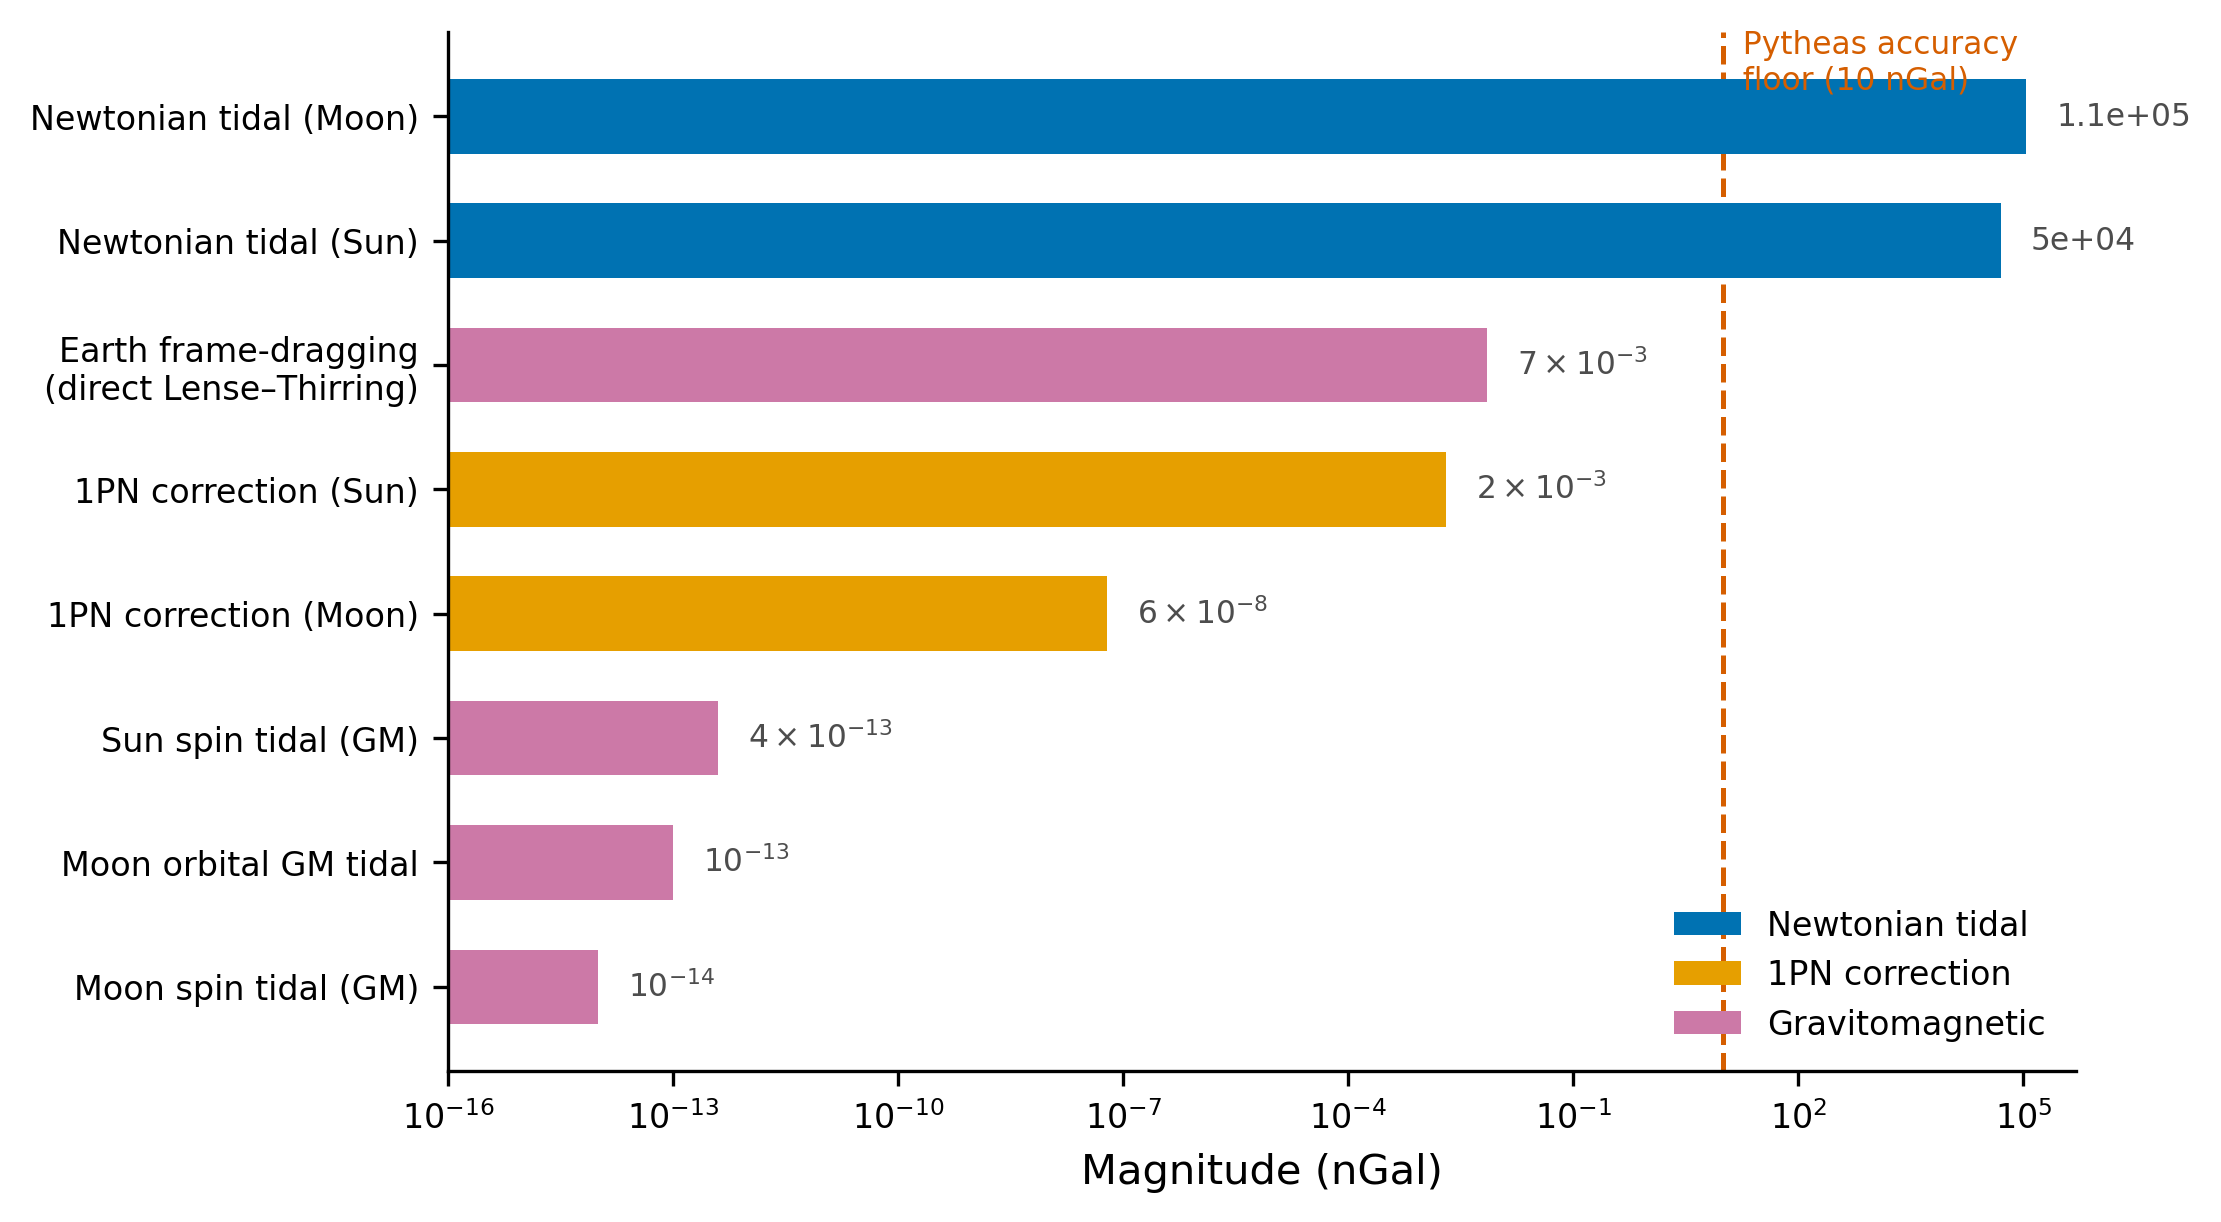
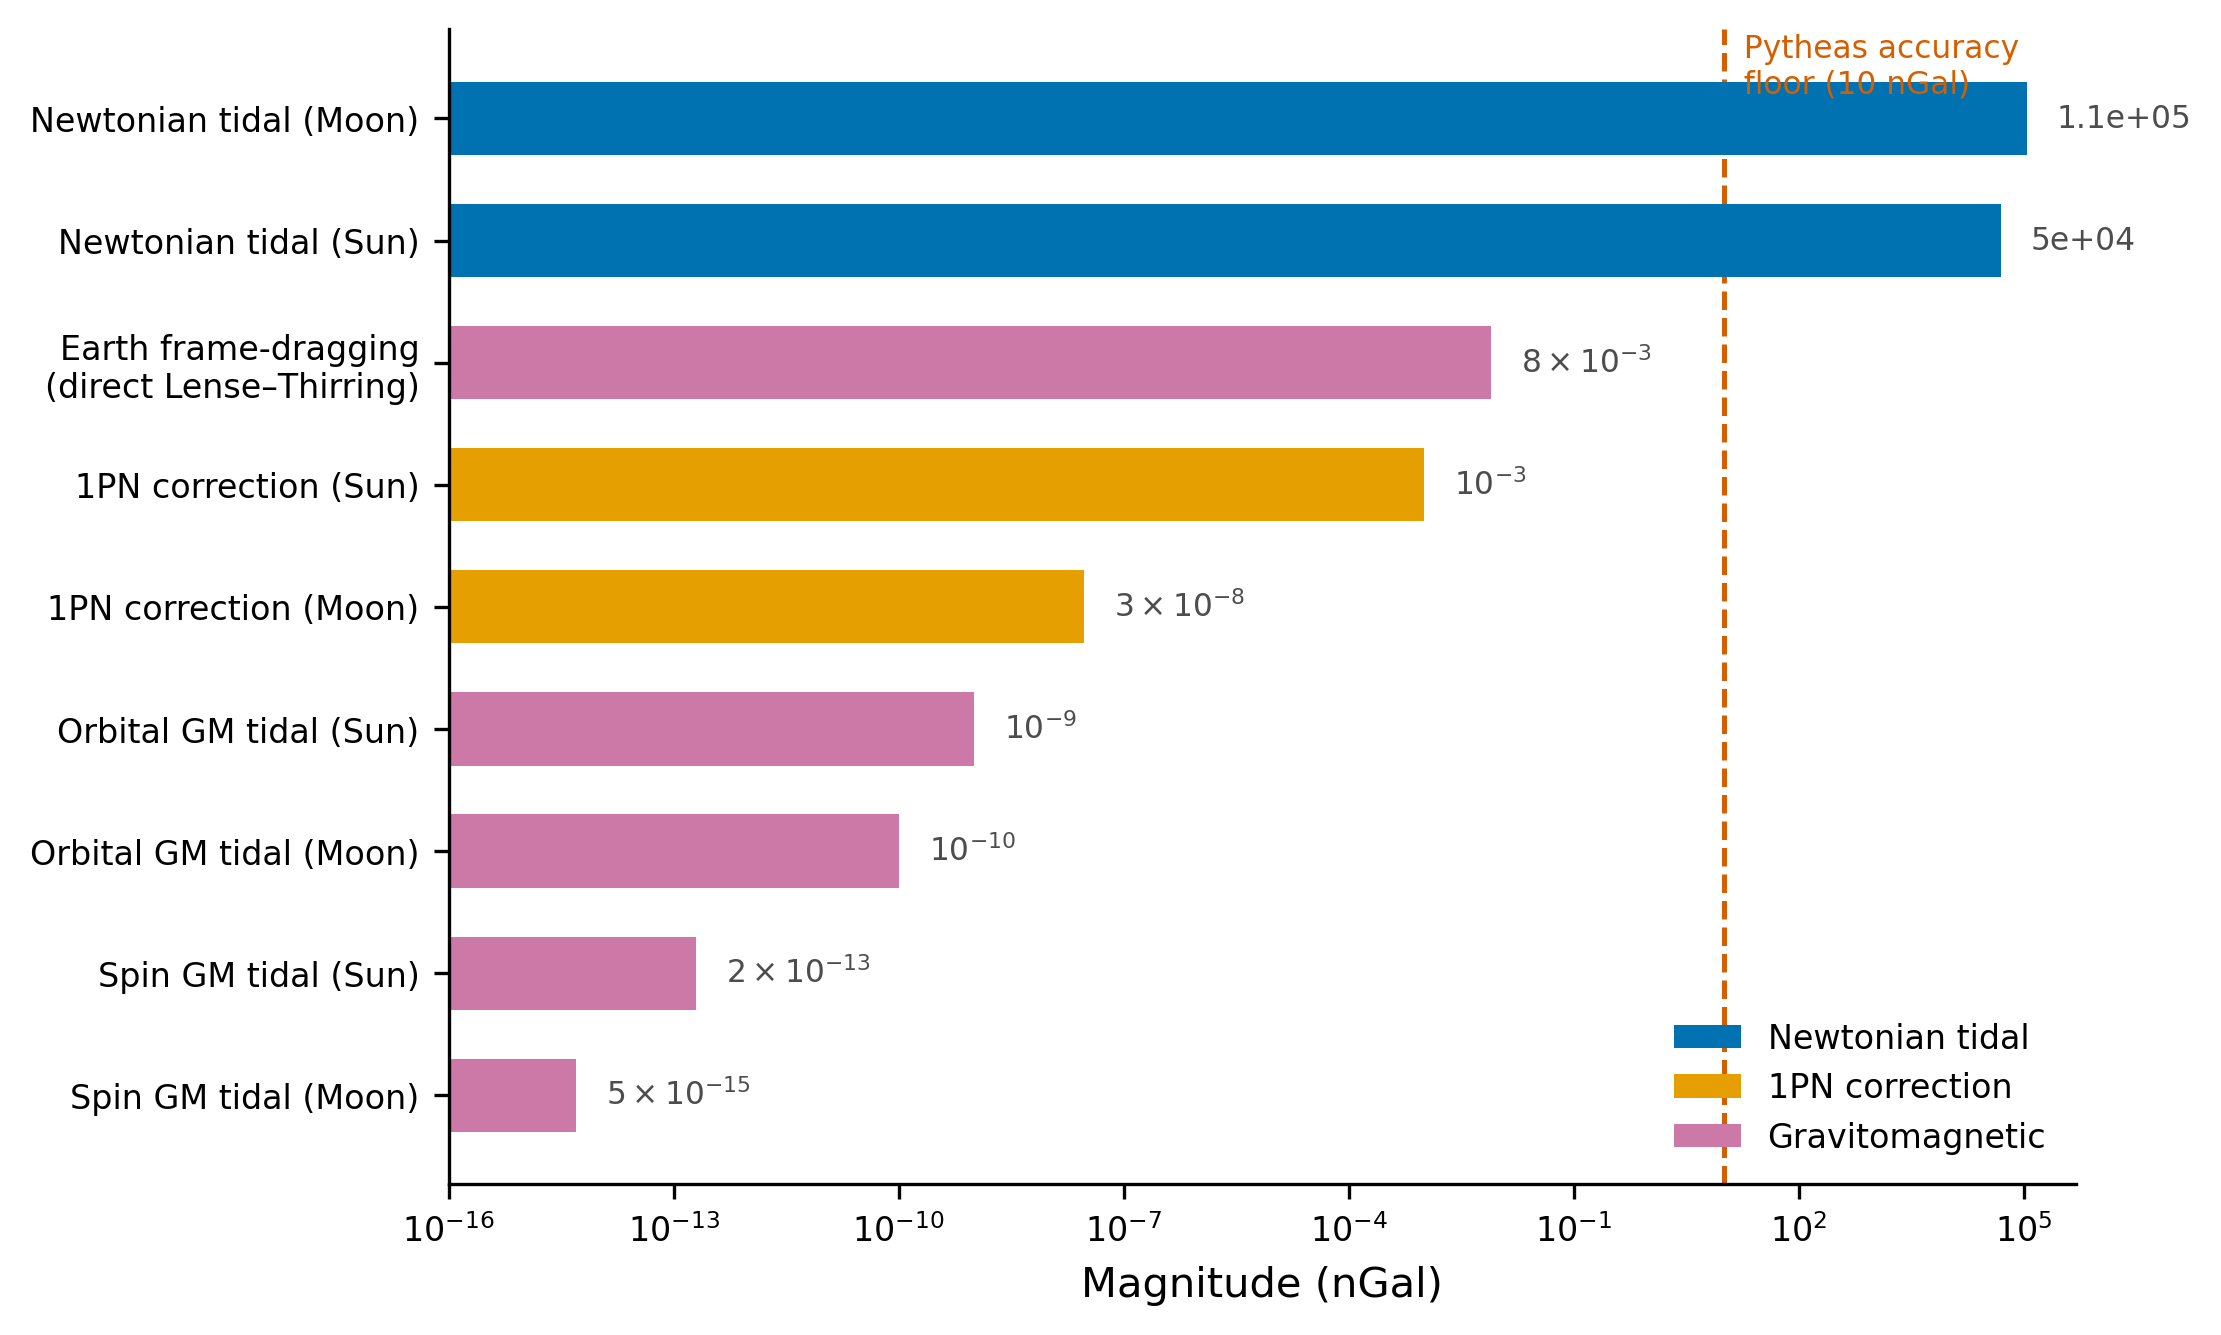
Replace Section 8 with SymPy-verified Fermi frame derivation
Replace the geodesic deviation approach with a rigorous Fermi normal
coordinate derivation verified by 4 independent SymPy/NumPy scripts.
The new Section 8 derives the geodesic equation in the lab's proper
frame, recovers the Newtonian tidal formula, and bounds all GR
corrections (1PN, Lense-Thirring, gravitomagnetic) below 10 nGal.

- Update fig14 values to match verified derivation (9 effects)
- Update README TOC for new Section 8 subsections (8.1-8.9)

Changed region(s): [[0.0, 0.0311, 0.9941, 0.9951], [0.6835, 0.3732, 0.7145, 0.4043]]

diff --git a/doc/figures/fig14_gr_corrections.py b/doc/figures/fig14_gr_corrections.py
@@ -21,13 +21,14 @@ apply_style()
 entries = [
     {"label": "Newtonian tidal (Moon)",         "nGal": 110_000,    "category": "newtonian"},
     {"label": "Newtonian tidal (Sun)",          "nGal": 50_000,     "category": "newtonian"},
-    {"label": "1PN correction (Sun)",           "nGal": 0.002,      "category": "1pn"},
+    {"label": "1PN correction (Sun)",           "nGal": 0.001,      "category": "1pn"},
     {"label": "Earth frame-dragging\n(direct Lense–Thirring)",
-                                                "nGal": 0.007,      "category": "gm"},
-    {"label": "1PN correction (Moon)",          "nGal": 6e-8,       "category": "1pn"},
-    {"label": "Sun spin tidal (GM)",            "nGal": 4e-13,      "category": "gm"},
-    {"label": "Moon orbital GM tidal",          "nGal": 1e-13,      "category": "gm"},
-    {"label": "Moon spin tidal (GM)",           "nGal": 1e-14,      "category": "gm"},
+                                                "nGal": 0.008,      "category": "gm"},
+    {"label": "1PN correction (Moon)",          "nGal": 3e-8,       "category": "1pn"},
+    {"label": "Orbital GM tidal (Sun)",         "nGal": 1e-9,       "category": "gm"},
+    {"label": "Orbital GM tidal (Moon)",        "nGal": 1e-10,      "category": "gm"},
+    {"label": "Spin GM tidal (Sun)",            "nGal": 2e-13,      "category": "gm"},
+    {"label": "Spin GM tidal (Moon)",           "nGal": 5e-15,      "category": "gm"},
 ]
 
 # Sort by magnitude (largest at top)
@@ -46,7 +47,7 @@ color_map = {
 bar_colors = [color_map[c] for c in categories]
 
 # ---- Plot ----
-fig, ax = plt.subplots(figsize=(7, 4.5))
+fig, ax = plt.subplots(figsize=(7, 5))
 
 y_pos = np.arange(len(entries))
 bars = ax.barh(y_pos, magnitudes, color=bar_colors, height=0.6, edgecolor="none")

diff --git a/doc/README.md b/doc/README.md
@@ -4,7 +4,7 @@
 
 $$g_\text{total}(t) = \gamma(\varphi, h) + \delta \times \Big[a_\text{moon}(t) + a_\text{sun}(t)\Big] \cdot \hat{n}$$
 
-This document derives every term in the formula above from first principles, building up layer by layer from Newton's shell theorem to a complete, working tidal gravity calculator accurate to ~10 nGal at inland sites. A final section traces the Newtonian tidal model back to general relativity via geodesic deviation, confirming that post-Newtonian corrections are negligible at this accuracy level.
+This document derives every term in the formula above from first principles, building up layer by layer from Newton's shell theorem to a complete, working tidal gravity calculator accurate to ~10 nGal at inland sites. A final section traces the Newtonian tidal model back to general relativity via the Fermi normal coordinate framework, confirming that all post-Newtonian and gravitomagnetic corrections are negligible at this accuracy level.
 
 Each section includes worked numerical examples, code snippets from the [Pytheas](../README.md) library, and publication-quality figures.
 
@@ -110,12 +110,15 @@ See the [project README](../README.md) for full installation options and the CLI
 
 ### [8. General Relativity and the Tidal Model](_sec8_gr_tidal.md)
 
-- [8.1 Why Spacetime Curvature?](_sec8_gr_tidal.md#81-why-spacetime-curvature)
-- [8.2 The Electrogravitic Tidal Tensor](_sec8_gr_tidal.md#82-the-electrogravitic-tidal-tensor)
-- [8.3 From Curved Spacetime to Newton](_sec8_gr_tidal.md#83-from-curved-spacetime-to-newton)
-- [8.4 Post-Newtonian Corrections to the Tidal Tensor](_sec8_gr_tidal.md#84-post-newtonian-corrections-to-the-tidal-tensor)
-- [8.5 Gravitomagnetic (Lense-Thirring) Tidal Effects](_sec8_gr_tidal.md#85-gravitomagnetic-lense-thirring-tidal-effects)
-- [8.6 The Hierarchy of Corrections](_sec8_gr_tidal.md#86-the-hierarchy-of-corrections)
+- [8.1 The Fermi Normal Coordinate Framework](_sec8_gr_tidal.md#81-the-fermi-normal-coordinate-framework)
+- [8.2 The Geodesic Equation in the Lab Frame](_sec8_gr_tidal.md#82-the-geodesic-equation-in-the-lab-frame)
+- [8.3 Term-by-Term Derivation and Classification](_sec8_gr_tidal.md#83-term-by-term-derivation-and-classification)
+- [8.4 Recovering the Newtonian Tidal Formula](_sec8_gr_tidal.md#84-recovering-the-newtonian-tidal-formula)
+- [8.5 Post-Newtonian and Gravitomagnetic Corrections](_sec8_gr_tidal.md#85-post-newtonian-and-gravitomagnetic-corrections)
+- [8.6 The Complete Hierarchy](_sec8_gr_tidal.md#86-the-complete-hierarchy)
+- [8.7 Dimensional and Limiting-Case Checks](_sec8_gr_tidal.md#87-dimensional-and-limiting-case-checks)
+- [8.8 Conclusion](_sec8_gr_tidal.md#88-conclusion)
+- [8.9 Computational Verification](_sec8_gr_tidal.md#89-computational-verification)
 
 ---
 
